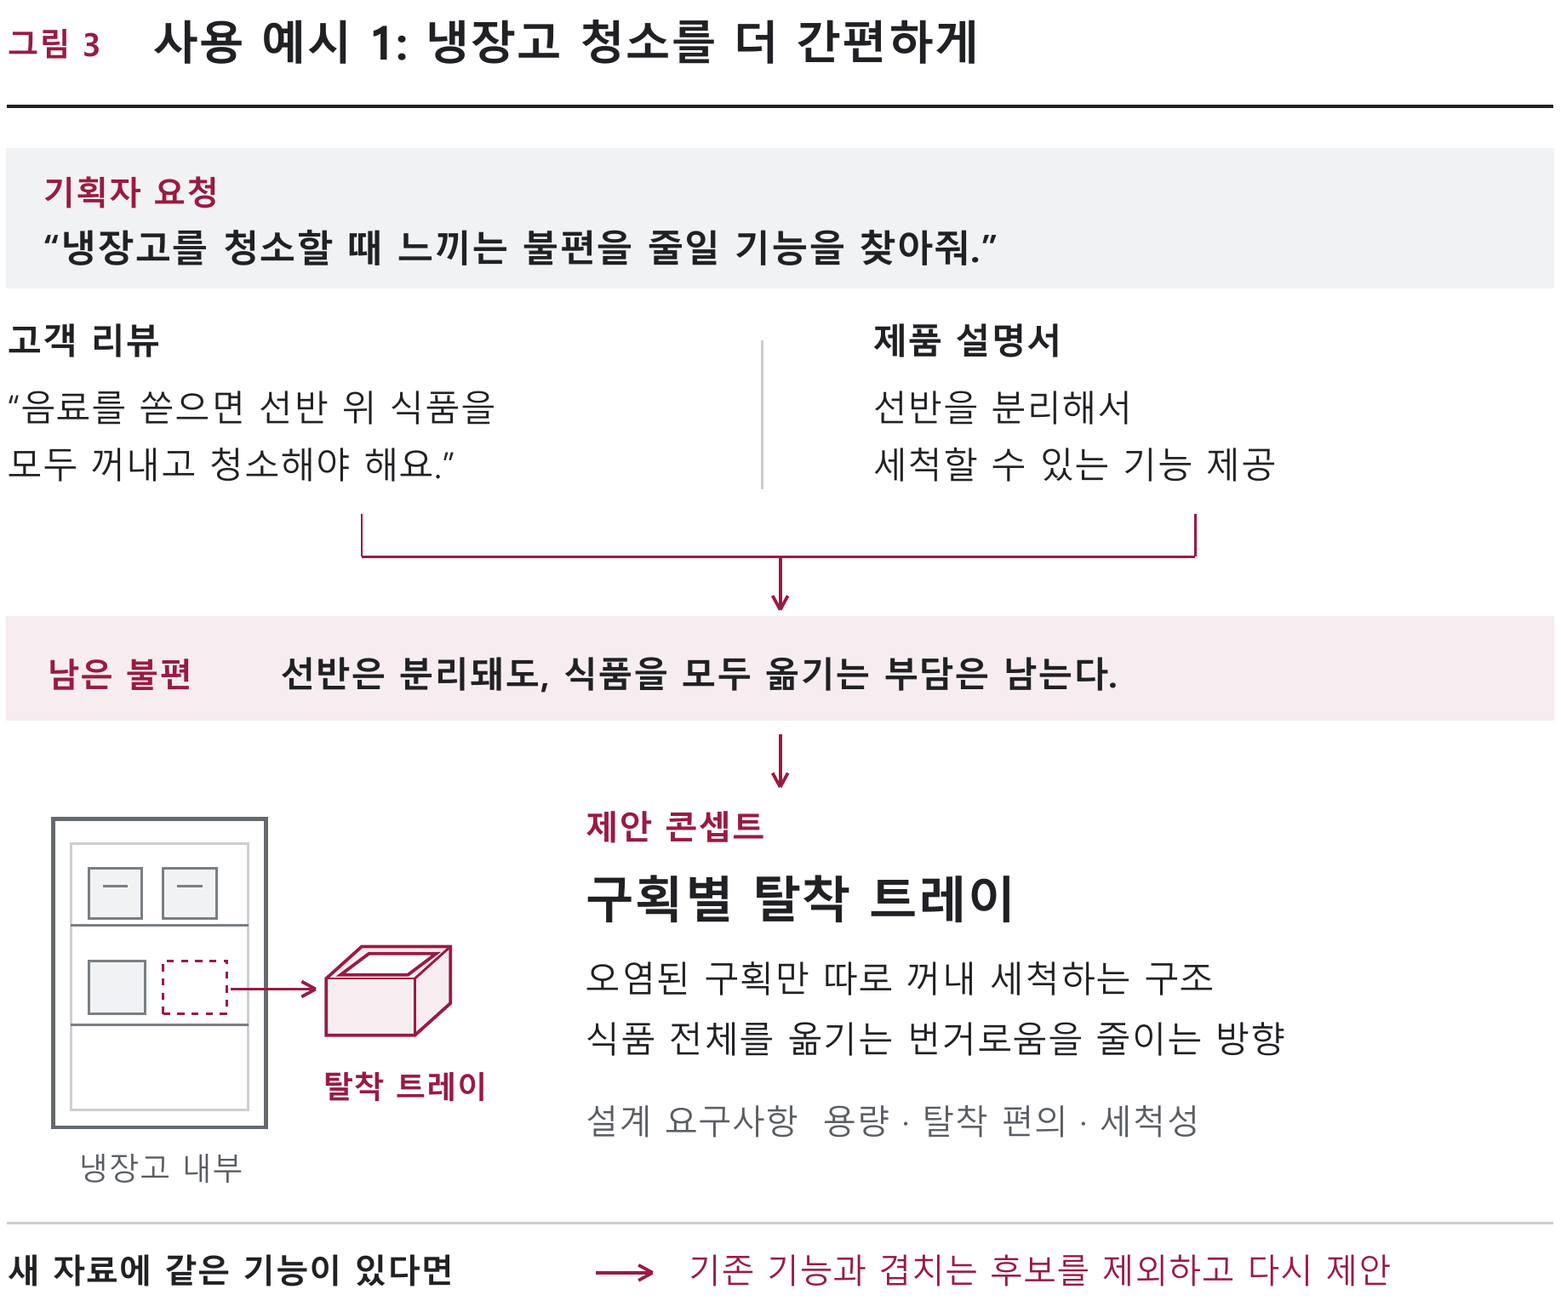
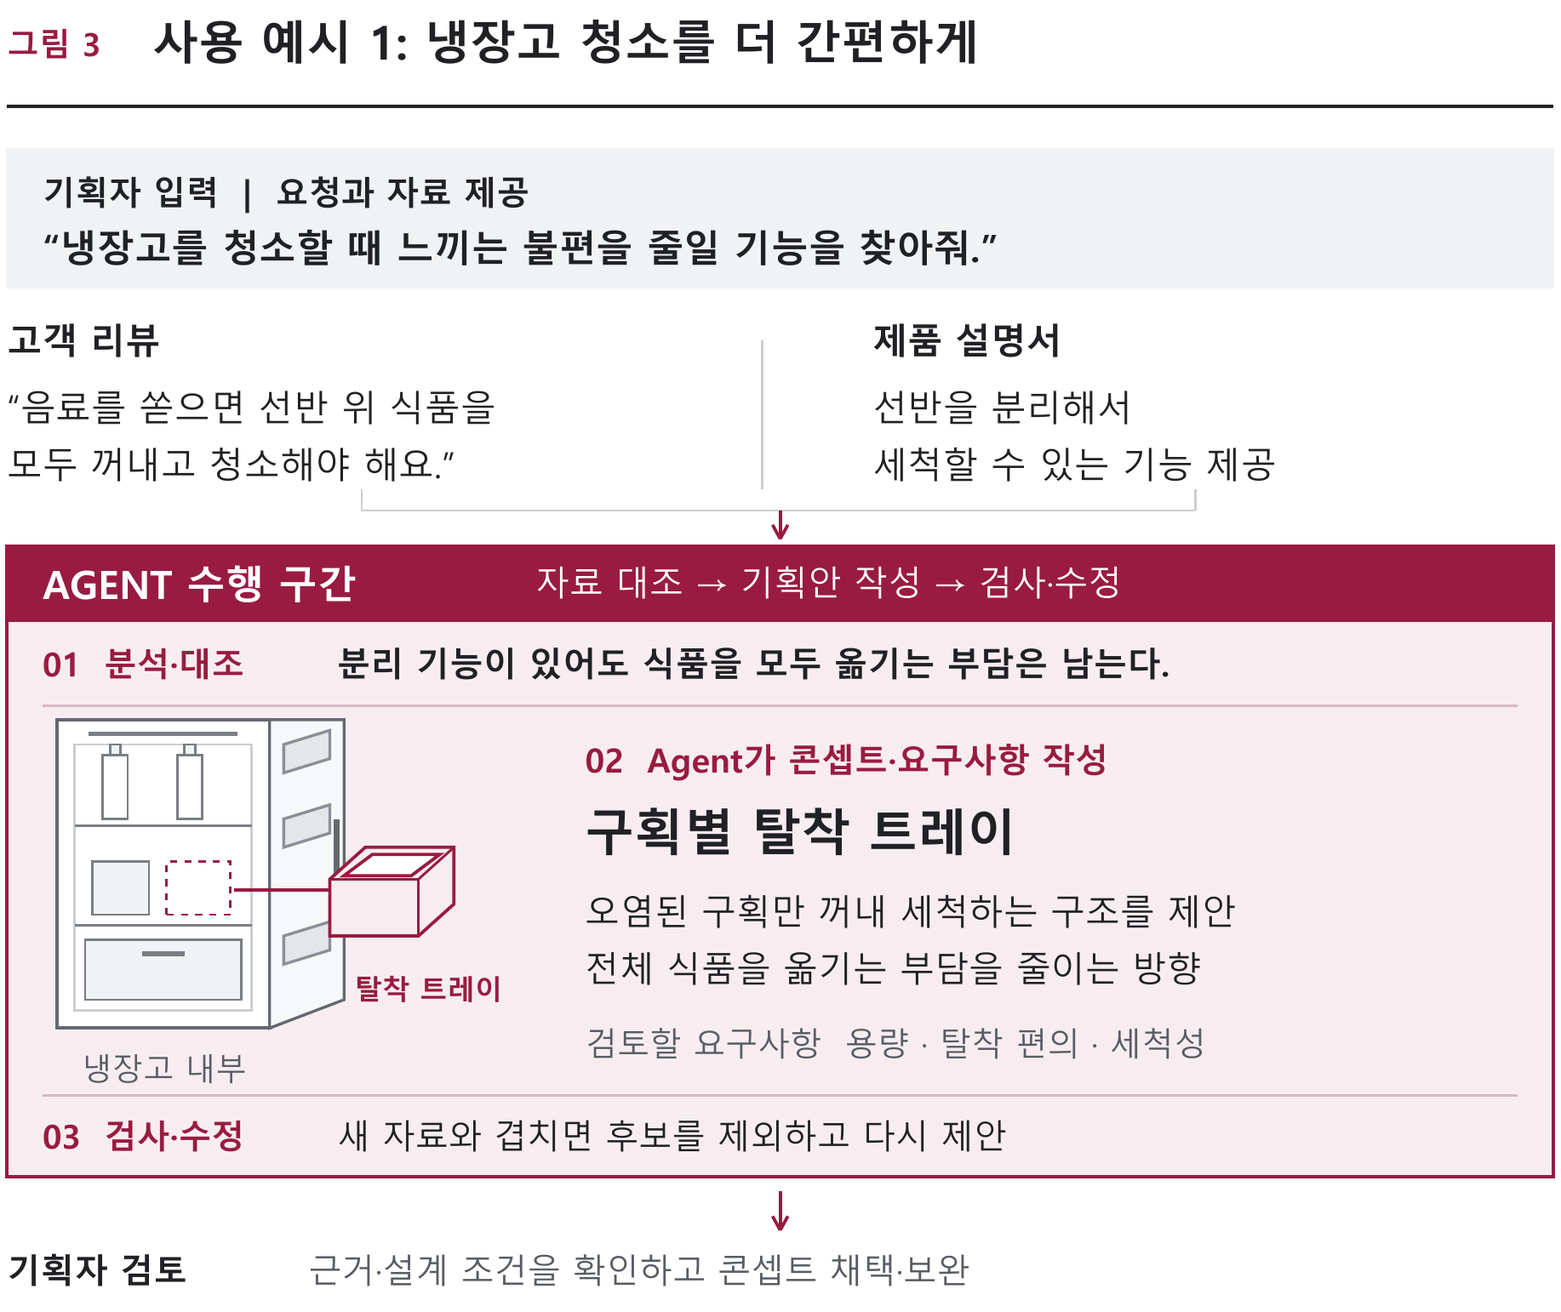
Clarify Agent intervention and appliance illustrations in proposal

diff --git a/scripts/build_proposal_visuals.py b/scripts/build_proposal_visuals.py
@@ -71,12 +71,19 @@ def workflow(c):
  line(c,430,92,430,40);arrow(c,430,40,244,40);text(c,312,23,'검사를 거친 제안 전달',9.2,color=MUTED)
 
 def fridge(c,x,y):
+ # Open refrigerator: insulated cabinet, shelves, crisper, and door bins.
  rect(c,x,y,60,87,'#FFFFFF','#646970',1);rect(c,x+5,y+5,50,75,'#FFFFFF',LINE)
+ rect(c,x+8,y+8,44,17,PALE,'#7A7E84');line(c,x+24,y+21,x+36,y+21,'#7A7E84',1.5)
+ line(c,x+9,y+83,x+51,y+83,'#7A7E84',1.2)
+ for bx in (13,34):
+  rect(c,x+bx,y+59,7,18,'#FFFFFF','#7A7E84');rect(c,x+bx+2,y+77,3,3,PALE,'#7A7E84')
+ polygon(c,[(x+60,y),(x+81,y+8),(x+81,y+87),(x+60,y+87)],'#F7F8F9','#646970')
+ for by in (18,51,72):
+  polygon(c,[(x+64,y+by),(x+77,y+by+4),(x+77,y+by+12),(x+64,y+by+8)],'#E4E7EA','#8B9096')
+ line(c,x+79,y+36,x+79,y+59,'#646970',1.7)
  line(c,x+5,y+29,x+55,y+29,'#7A7E84');line(c,x+5,y+57,x+55,y+57,'#7A7E84')
- for dx in (10,31):
-  rect(c,x+dx,y+59,15,14,PALE,'#7A7E84');line(c,x+dx+4,y+68,x+dx+11,y+68,'#7A7E84')
  rect(c,x+10,y+32,16,15,PALE,'#7A7E84');c.setDash(2,2);rect(c,x+31,y+32,18,15,None,ACCENT);c.setDash()
- arrow(c,x+50,y+39,x+74,y+39,ACCENT)
+ arrow(c,x+50,y+39,x+85,y+39,ACCENT)
  p=c.beginPath()
  for i,pt in enumerate([(x+77,y+26),(x+102,y+26),(x+112,y+35),(x+112,y+51),(x+87,y+51),(x+77,y+42)]):
   (p.moveTo if i==0 else p.lineTo)(*pt)
@@ -86,35 +93,87 @@ def fridge(c,x,y):
   (q.moveTo if i==0 else q.lineTo)(*pt)
  q.close();c.setFillColor(HexColor('#FFFFFF'));c.drawPath(q,fill=1,stroke=1)
  line(c,x+77,y+42,x+102,y+42,ACCENT);line(c,x+102,y+42,x+112,y+51,ACCENT);line(c,x+102,y+26,x+102,y+42,ACCENT)
- text(c,x+7,y-15,'냉장고 내부',8.7,color=MUTED);text(c,x+76,y+8,'탈착 트레이',8.7,True,ACCENT)
+ text(c,x+7,y-15,'냉장고 내부',8.7,color=MUTED);text(c,x+84,y+8,'탈착 트레이',7.8,True,ACCENT)
+
+def polygon(c,points,fill,stroke=LINE):
+ p=c.beginPath();p.moveTo(*points[0])
+ for pt in points[1:]:p.lineTo(*pt)
+ p.close();c.setFillColor(HexColor(fill));c.setStrokeColor(HexColor(stroke));c.setLineWidth(.8);c.drawPath(p,fill=1,stroke=1)
+
+def dishwasher(c):
+ # Front-open appliance, control strip, two wire racks, plates and a pot.
+ rect(c,24,95,105,69,'#FFFFFF','#646970',1)
+ rect(c,29,100,95,50,'#E9ECEF','#8B9096')
+ rect(c,29,153,95,7,PALE,LINE)
+ for x in (34,40,46):c.setStrokeColor(HexColor(MUTED));c.circle(x,156.5,1,stroke=1,fill=0)
+ rect(c,105,155,13,3,'#646970','#646970')
+ for yy in (126,105):
+  rect(c,34,yy,85,19,'#FFFFFF','#8B9096')
+  for xx in range(39,119,8):line(c,xx,yy,xx,yy+18,LINE,.5)
+  line(c,34,yy+6,119,yy+6,LINE,.5)
+ for xx in (43,54,65):
+  c.setStrokeColor(HexColor(ACCENT));c.setLineWidth(1);c.ellipse(xx,108,xx+7,122,stroke=1,fill=0)
+ rect(c,84,111,21,10,PALE,ACCENT);line(c,80,118,84,118,ACCENT);line(c,105,118,109,118,ACCENT)
+ for xx in (43,65,87):rect(c,xx,131,12,10,PALE,'#7A7E84')
+ polygon(c,[(24,95),(129,95),(144,78),(9,78)],'#ECEFF1','#646970')
+ rect(c,58,82,30,5,'#FFFFFF','#8B9096')
+ text(c,26,65,'식기세척기 · 열린 문과 바구니',8.1,color=MUTED)
+
+def microwave(c):
+ # Familiar countertop silhouette, door handle, keypad and glass turntable.
+ rect(c,12,105,138,55,'#FFFFFF','#646970',1.1)
+ rect(c,17,111,96,43,'#DEE3E7','#646970')
+ rect(c,23,116,78,32,'#F5F7F8','#A3A8AD')
+ c.setStrokeColor(HexColor('#8B9096'));c.ellipse(30,119,94,128,stroke=1,fill=0)
+ c.ellipse(42,123,83,136,stroke=1,fill=0);line(c,43,128,48,122,'#8B9096');line(c,82,128,77,122,'#8B9096')
+ line(c,107,121,107,145,'#646970',2.5)
+ rect(c,119,142,24,11,'#303940','#303940');text(c,122,145,'1:30',6.5,color='#FFFFFF')
+ for yy in (136,130,124):
+  for xx in (122,130,138):rect(c,xx,yy,4,3,PALE,'#8B9096',.5)
+ rect(c,120,115,22,5,WASH,ACCENT)
+ rect(c,23,102,14,3,'#646970','#646970');rect(c,125,102,14,3,'#646970','#646970')
+ text(c,20,89,'전자레인지 · 저장/호출 조작부',8.2,color=MUTED)
+ rect(c,18,67,129,15,'#FFFFFF',ACCENT)
+ text(c,26,71,'설정 저장 후보 → 중복 제외',8.3,True,ACCENT)
 
 def example(c):
- title(c,354,'3','사용 예시 1: 냉장고 청소를 더 간편하게')
- rect(c,2,289,436,39,PALE,PALE);text(c,12,312,'기획자 요청',9.3,True,ACCENT)
- text(c,12,296,'“냉장고를 청소할 때 느끼는 불편을 줄일 기능을 찾아줘.”',10.5,True)
- text(c,2,270,'고객 리뷰',10,True);lines(c,2,251,['“음료를 쏟으면 선반 위 식품을','모두 꺼내고 청소해야 해요.”'],10,16)
- text(c,246,270,'제품 설명서',10,True);lines(c,246,251,['선반을 분리해서','세척할 수 있는 기능 제공'],10,16)
- line(c,215,232,215,274);line(c,102,225,102,213,ACCENT);line(c,337,225,337,213,ACCENT)
- line(c,102,213,337,213,ACCENT);arrow(c,220,213,220,198,ACCENT)
- rect(c,2,167,436,29,WASH,WASH);text(c,13,176,'남은 불편',9.5,True,ACCENT)
- text(c,79,176,'선반은 분리돼도, 식품을 모두 옮기는 부담은 남는다.',10,True)
- arrow(c,220,163,220,148,ACCENT)
- fridge(c,15,52);text(c,165,133,'제안 콘셉트',9.5,True,ACCENT);text(c,165,111,'구획별 탈착 트레이',14,True)
- lines(c,165,90,['오염된 구획만 따로 꺼내 세척하는 구조','식품 전체를 옮기는 번거로움을 줄이는 방향'],10,17)
- text(c,165,50,'설계 요구사항  용량 · 탈착 편의 · 세척성',9.5,color=MUTED)
- line(c,2,25,438,25);text(c,2,8,'새 자료에 같은 기능이 있다면',9.4,True)
- arrow(c,168,11,184,11,ACCENT);text(c,194,8,'기존 기능과 겹치는 후보를 제외하고 다시 제안',9.4,color=ACCENT)
+ example_header(c,'3','사용 예시 1: 냉장고 청소를 더 간편하게',
+  '“냉장고를 청소할 때 느끼는 불편을 줄일 기능을 찾아줘.”',
+  ['“음료를 쏟으면 선반 위 식품을','모두 꺼내고 청소해야 해요.”'],
+  ['선반을 분리해서','세척할 수 있는 기능 제공'],
+  '분리 기능이 있어도 식품을 모두 옮기는 부담은 남는다.')
+ fridge(c,16,80)
+ text(c,165,152,'02  Agent가 콘셉트·요구사항 작성',9.4,True,ACCENT)
+ text(c,165,130,'구획별 탈착 트레이',14,True)
+ lines(c,165,109,['오염된 구획만 꺼내 세척하는 구조를 제안','전체 식품을 옮기는 부담을 줄이는 방향'],9.8,16)
+ text(c,165,72,'검토할 요구사항  용량 · 탈착 편의 · 세척성',9.1,color=MUTED)
+ example_footer(c,'새 자료와 겹치면 후보를 제외하고 다시 제안',
+  '근거·설계 조건을 확인하고 콘셉트 채택·보완')
 
 def example_header(c,number,label,request,review,spec,conclusion):
  title(c,354,number,label)
- rect(c,2,289,436,39,PALE,PALE);text(c,12,312,'기획자 요청',9.3,True,ACCENT)
+ rect(c,2,289,436,39,PALE,PALE);text(c,12,312,'기획자 입력  |  요청과 자료 제공',9.3,True)
  text(c,12,296,request,10.5,True)
  text(c,2,270,'고객 리뷰',10,True);lines(c,2,251,review,10,16)
  text(c,246,270,'제품 설명서',10,True);lines(c,246,251,spec,10,16)
- line(c,215,232,215,274);line(c,102,225,102,213,ACCENT);line(c,337,225,337,213,ACCENT)
- line(c,102,213,337,213,ACCENT);arrow(c,220,213,220,198,ACCENT)
- rect(c,2,167,436,29,WASH,WASH);text(c,13,176,'Agent 판단',9.5,True,ACCENT)
- text(c,91,176,conclusion,10,True);arrow(c,220,163,220,148,ACCENT)
+ line(c,215,232,215,274)
+ line(c,102,232,102,226);line(c,337,232,337,226)
+ line(c,102,226,337,226);arrow(c,220,226,220,218,ACCENT)
+ rect(c,2,38,436,178,WASH,ACCENT,1)
+ rect(c,2,195,436,21,ACCENT,ACCENT)
+ text(c,12,201,'AGENT 수행 구간',11,True,'#FFFFFF')
+ text(c,151,202,'자료 대조 → 기획안 작성 → 검사·수정',9.6,color='#FFFFFF')
+ text(c,12,179,'01  분석·대조',9.3,True,ACCENT)
+ text(c,95,179,conclusion,9.5,True)
+ line(c,12,171,428,171,'#D9B8C3')
+
+def example_footer(c,revision,review):
+ line(c,12,61,428,61,'#D9B8C3')
+ text(c,12,46,'03  검사·수정',9.3,True,ACCENT)
+ text(c,95,46,revision,9.4)
+ arrow(c,220,34,220,23,ACCENT)
+ text(c,2,8,'기획자 검토',9.5,True)
+ text(c,87,8,review,9.4,color=MUTED)
 
 def loading_guide(c):
  example_header(c,'4','사용 예시 2: 식기 조합에 맞는 적재 안내',
@@ -122,24 +181,13 @@ def loading_guide(c):
   ['“큰 접시와 냄비를 같이 넣을 때','어디에 놓아야 할지 모르겠어요.”'],
   ['기본 적재 그림과','자동 세척 코스 제공'],
   '기본 예시만으로는 내 식기 조합을 배치하기 어렵다.')
- # A plate/pot selection feeding a compact arrangement guide.
- rect(c,10,63,56,68,'#FFFFFF','#7A7E84')
- for y in (115,97):
-  c.setStrokeColor(HexColor('#7A7E84'));c.setLineWidth(.8);c.circle(25,y,7,fill=0,stroke=1)
-  line(c,40,y,56,y)
- c.setStrokeColor(HexColor(ACCENT));c.circle(25,77,7,fill=0,stroke=1)
- line(c,16,77,13,77,ACCENT);line(c,34,77,37,77,ACCENT)
- text(c,15,48,'식기 조합',9,color=MUTED)
- arrow(c,69,96,84,96,ACCENT)
- rect(c,90,60,58,74,'#FFFFFF','#7A7E84');line(c,95,122,143,122)
- for x in (100,108,116):line(c,x,98,x,116,ACCENT,1.4)
- c.setStrokeColor(HexColor(ACCENT));c.circle(130,82,9,fill=0,stroke=1)
- line(c,96,67,142,67);text(c,98,45,'배치 안내',9,True,ACCENT)
- text(c,170,133,'제안 서비스',9.5,True,ACCENT);text(c,170,111,'식기 조합별 배치 가이드',13,True)
- lines(c,170,90,['식기의 종류·크기에 맞는 적재 순서 안내','큰 식기 배치와 회전 날개 간섭 확인'],9.8,17)
- text(c,170,50,'설계 요구사항  조합 입력 · 모델별 배치 규칙',9.2,color=MUTED)
- line(c,2,25,438,25);text(c,2,8,'식기·제품 조건이 바뀌면',9.4,True)
- arrow(c,154,11,170,11,ACCENT);text(c,183,8,'안내 콘셉트와 필요한 기능을 다시 검토',9.4,color=ACCENT)
+ dishwasher(c)
+ text(c,170,152,'02  Agent가 서비스·요구사항 작성',9.4,True,ACCENT)
+ text(c,170,130,'식기 조합별 배치 가이드',13,True)
+ lines(c,170,109,['종류·크기별 적재 순서를 안내하는 서비스','큰 식기·회전 날개 간섭 확인 기능을 제안'],9.4,16)
+ text(c,170,72,'검토할 요구사항  조합 입력 · 모델별 배치 규칙',8.9,color=MUTED)
+ example_footer(c,'식기·제품 조건이 바뀌면 안내 기능을 재검토',
+  '서비스 흐름과 필요한 기능을 확인하고 채택·보완')
 
 def duplicate_filter(c):
  example_header(c,'5','사용 예시 3: 이미 있는 기능은 걸러내기',
@@ -147,16 +195,13 @@ def duplicate_filter(c):
   ['“매일 같은 음식을 데우는데','시간과 출력을 다시 입력해요.”'],
   ['내 설정 저장과','원터치 호출 기능 제공'],
   '‘자주 쓰는 설정 저장’은 이미 제공되는 기능이다.')
- # A document comparison instead of inventing another appliance feature.
- rect(c,11,63,137,75,'#FFFFFF','#7A7E84');text(c,21,120,'검토 중인 후보',9,color=MUTED)
- text(c,21,101,'자주 쓰는 설정 저장',10,True)
- line(c,19,95,138,95,ACCENT,1.1)
- rect(c,22,72,113,16,WASH,WASH);text(c,35,76,'기존 기능과 중복',8.6,True,ACCENT)
- text(c,170,133,'검토 결과',9.5,True,ACCENT);text(c,170,111,'중복 후보 제외 · 추가 확인',13,True)
- lines(c,170,90,['저장 기능을 알고 사용해 봤는가?', '등록 과정이나 호출 위치가 불편한가?'],10,17)
- text(c,170,50,'다음 기획 방향  사용 과정에서 남은 불편 확인',9.2,color=MUTED)
- line(c,2,25,438,25);text(c,2,8,'추가 리뷰·조건을 확인하면',9.4,True)
- arrow(c,164,11,180,11,ACCENT);text(c,194,8,'실제로 남은 불편에 맞춰 다시 기획',9.4,color=ACCENT)
+ microwave(c)
+ text(c,170,152,'02  Agent가 중복 제외·확인 질문 작성',9.2,True,ACCENT)
+ text(c,170,130,'중복 후보 제외 · 추가 확인',13,True)
+ lines(c,170,109,['저장 기능을 알고 사용해 봤는가?', '등록 과정이나 호출 위치가 불편한가?'],9.8,16)
+ text(c,170,72,'다음 기획 방향  사용 과정에서 남은 불편 확인',8.9,color=MUTED)
+ example_footer(c,'추가 리뷰·조건을 반영해 남은 불편을 다시 분석',
+  '추가 확인할 질문을 검토하고 자료·조건 보완')
 
 def save(name,height,draw):
  pdf=TMP/(name+'.pdf');c=canvas.Canvas(str(pdf),pagesize=(440,height));c.setTitle(name);draw(c);c.showPage();c.save()

diff --git a/AGENTS.md b/AGENTS.md
@@ -19,6 +19,6 @@
 - 단계가 끝나면 진행체크리스트와 결정 기록을 갱신한다. 기존 프로젝트의 원본이나 다른 프로젝트 파일은 이 작업을 위해 변경하지 않는다.
 - 기존의 공모전별 저장소·맞춤 하네스 구상은 인수인계에 기록되어 있다. 원격 저장소나 CI가 이미 준비되었다고 가정하지 않는다.
 
-- 최신 접수 원고는 `기획/제출제안서_원고.md`, 상세 설계는 `기획/채택안_Agent설계.md`다. 현재 4인 HWP/PDF는 `private/제출준비/LG_AX_키친에서치킨먹기_4인최종본_v2`다. 기존 세 명의 손글씨 이미지와 황대겸의 새 필기체를 원본 서명 문구 위 총 12곳에 반영했다. HWP 재열기·전체 11쪽(제안서 8쪽) 재검수 근거는 `docs/4인팀_서류검수_2026-09-27.md`다. 사용자 동의 확인·팀 최종 검토·온라인 제출을 구분한다.
+- 최신 접수 원고는 `기획/제출제안서_원고.md`, 상세 설계는 `기획/채택안_Agent설계.md`다. 현재 4인 HWP/PDF는 `private/제출준비/LG_AX_키친에서치킨먹기_시각보완본`다. 기존 세 명의 손글씨 이미지와 황대겸의 새 필기체를 원본 서명 문구 위 총 12곳에 반영했다. HWP 재열기·전체 11쪽(제안서 8쪽) 재검수 근거는 `docs/4인팀_서류검수_2026-09-27.md`다. 사용자 동의 확인·팀 최종 검토·온라인 제출을 구분한다.
 
 - 제안서 시각자료는 `기획/시각자료/`와 생성 스크립트로 관리한다. 사용자 요청에 따라 웹 레퍼런스를 참고한 절제된 도표 디자인을 유지한다. 최신 그림은 개요·작동 방식 2장과 사용 예시 3장, 총 5장이다. 사용 예시는 냉장고 구조 개선·식기세척기 안내 서비스·전자레인지 기능 중복 제외다. 비교 평가표와 긴 메타 주석은 사용자가 제거하도록 요청했으므로 다시 넣지 않는다. 자료 성격과 구현 범위는 본문에서 설명한다. 기존 세 필체의 굵기 보정 이미지에 황대겸의 구별되는 새 필체를 추가했다. 동의서에서는 행 간 겹침을 피하도록 비율을 유지해 표시 크기를 맞췄다.

diff --git a/docs/진행체크리스트.md b/docs/진행체크리스트.md
@@ -113,3 +113,8 @@ AtoZ는 목표~제안서 원고 8/12단계 기록 검증을 통과했다. propos
 사용자의 긴급 지시로 황대겸(컴퓨터공학과 3학년)을 LG 팀에 추가했다. 후속 답변으로 필수 정보·창원캠퍼스 재학·개인정보 및 초상권 동의·필기체 작성/삽입 승인을 확인했다. 개인정보 값은 private/에만 저장했다. 현재 정이량(팀장)·신진하·최길웅·황대겸 4명이다. 앞선 3인 구성·서명 9곳 기록은 이전 버전이다.
 
 최신 파일은 `private/제출준비/LG_AX_키친에서치킨먹기_4인최종본_v2.hwp` 및 PDF다. 신청서·동의서·서약서의 네 번째 이름과 서명, 제안서의 4인 협업 계획을 반영했다. 전체 11쪽·제안서 8쪽·시각자료 5장·서명 12곳이며 HWP 재열기와 변경 페이지 시각 검수, 나머지 페이지 렌더 일치를 확인했다. 상세는 `docs/4인팀_서류검수_2026-09-27.md`다. 최신 4인 제안서·서약 팀 검토, 로그인 후 업로드 조건, 온라인 접수와 증빙은 남았다.
+
+
+## 2026-09-27 사용 예시 시각 보완
+
+그림 3~5의 Agent 수행 구간을 강조하고 세 제품의 외형·내부·조작부를 구체화했다. 최신 제출용은 `private/제출준비/LG_AX_키친에서치킨먹기_시각보완본.hwp` 및 같은 이름 PDF다. 11쪽/제안서 8쪽, 변경 3쪽 시각 검수와 나머지 8쪽 렌더 일치 확인. 근거: `docs/시각자료_보완검수_2026-09-27.md`. 실제 접수는 미완료다.

diff --git a/docs/인수인계.md b/docs/인수인계.md
@@ -155,3 +155,8 @@
 사용자의 긴급 지시로 황대겸(컴퓨터공학과 3학년)을 LG 팀에 추가했다. 후속 답변으로 필수 정보·창원캠퍼스 재학·개인정보 및 초상권 동의·필기체 작성/삽입 승인을 확인했다. 개인정보 값은 private/에만 저장했다. 현재 정이량(팀장)·신진하·최길웅·황대겸 4명이다. 앞선 3인 구성·서명 9곳 기록은 이전 버전이다.
 
 최신 파일은 `private/제출준비/LG_AX_키친에서치킨먹기_4인최종본_v2.hwp` 및 PDF다. 신청서·동의서·서약서의 네 번째 이름과 서명, 제안서의 4인 협업 계획을 반영했다. 전체 11쪽·제안서 8쪽·시각자료 5장·서명 12곳이며 HWP 재열기와 변경 페이지 시각 검수, 나머지 페이지 렌더 일치를 확인했다. 상세는 `docs/4인팀_서류검수_2026-09-27.md`다. 최신 4인 제안서·서약 팀 검토, 로그인 후 업로드 조건, 온라인 접수와 증빙은 남았다.
+
+
+## 2026-09-27 사용 예시 시각 보완
+
+그림 3~5의 Agent 수행 구간을 강조하고 세 제품의 외형·내부·조작부를 구체화했다. 최신 제출용은 `private/제출준비/LG_AX_키친에서치킨먹기_시각보완본.hwp` 및 같은 이름 PDF다. 11쪽/제안서 8쪽, 변경 3쪽 시각 검수와 나머지 8쪽 렌더 일치 확인. 근거: `docs/시각자료_보완검수_2026-09-27.md`. 실제 접수는 미완료다.

diff --git a/docs/시각자료_보완검수_2026-09-27.md b/docs/시각자료_보완검수_2026-09-27.md
@@ -1,0 +1,13 @@
+# 사용 예시 시각자료 보완 검수
+
+2026-09-27 사용자 PDF 5쪽 의견 및 후속 제품 외형 구체화 요청 반영.
+
+- 그림 3~5에 기획자 입력 → Agent 수행 구간(분석·대조 / 기획안 작성 / 검사·수정) → 기획자 검토를 구분했다.
+- 냉장고는 열린 문·도어 수납·선반·서랍·병·탈착 트레이를, 식기세척기는 열린 하부 문·2단 바구니·접시·냄비·조작부를 표현했다.
+- 전자레인지는 손잡이·시간 표시창·버튼·회전 접시를 표현하고 기존 기능 중복 제외 결과를 함께 표시했다.
+- 최신 작성본: `private/제출준비/LG_AX_키친에서치킨먹기_시각보완본.hwp` 및 같은 이름 PDF.
+- HWP native 재열기 성공, 본문 일치, 전체 11쪽 / 제안서 8쪽 유지.
+- 변경한 PDF 5~7쪽 렌더를 시각 검수했다. 나머지 8쪽은 이전 4인 최종본 렌더와 바이트 단위 일치한다. PDF 전체 본문도 이전 파일과 일치한다.
+- 4인 필수 정보·동의 표시·서명 12곳·행정 주요 구절 16개·공식 원본 보존 확인.
+- 상세 검수와 해시는 Git 제외 `private/제출준비/시각보완_검수결과.json`에 보관한다.
+- 팀 최종 검토·로그인 후 업로드 조건 확인·실제 접수 및 증빙은 별도 미완료다. 이번 검수는 문서 검수이며 Agent 구현·성능 검증이 아니다.

diff --git a/docs/서류검수_2026-09-27.md b/docs/서류검수_2026-09-27.md
@@ -1,6 +1,6 @@
 # 접수 서류 검수 현황
 
-현재 팀은 정이량(팀장)·신진하·최길웅·황대겸 4명이다. 최신 작성본은 `private/제출준비/LG_AX_키친에서치킨먹기_4인최종본_v2.hwp` 및 같은 이름의 PDF다.
+현재 팀은 정이량(팀장)·신진하·최길웅·황대겸 4명이다. 최신 작성본은 `private/제출준비/LG_AX_키친에서치킨먹기_시각보완본.hwp` 및 같은 이름의 PDF다.
 
 - [4인 팀 변경 검수](4인팀_서류검수_2026-09-27.md): 황대겸 정보·동의·서명 추가, 협업 계획 4인 수정, HWP 재열기·PDF 검수.
 - [이전 전수점검](제출전_최종점검_2026-09-27.md): 기존 3인 파일 기준 내용·출처·공식 요건 점검의 역사 기록.

diff --git a/README.md b/README.md
@@ -19,7 +19,7 @@
 
 ## 지금 볼 문서
 
-- [4인 팀 서류 검수](docs/4인팀_서류검수_2026-09-27.md): 황대겸 추가·4인 협업·서명 12곳·11쪽 재검수. 최신 파일명은 `LG_AX_키친에서치킨먹기_4인최종본_v2`.
+- [4인 팀 서류 검수](docs/4인팀_서류검수_2026-09-27.md): 황대겸 추가·4인 협업·서명 12곳·11쪽 재검수. 최신 파일명은 `LG_AX_키친에서치킨먹기_시각보완본`.
 - [이전 3인 제출 전 점검](docs/제출전_최종점검_2026-09-27.md): 내용·출처·공식 요건의 전수점검 기록.
 
 - [채택안 Agent 설계](기획/채택안_Agent설계.md): **현재 출품 방향**. 사용자 채택, 입출력·도구·수정 루프·평가·구현 백로그.
